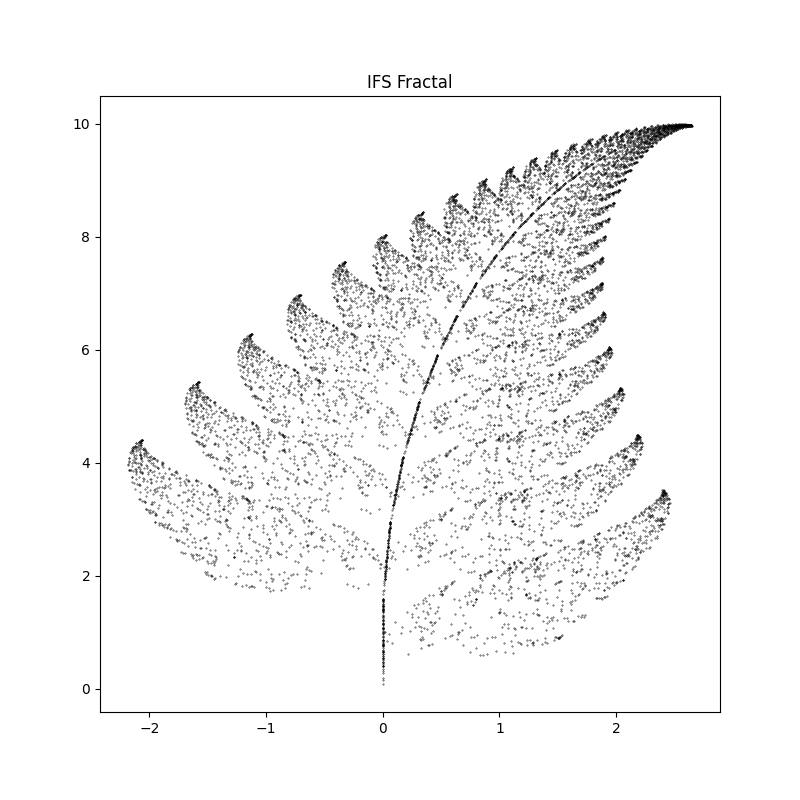
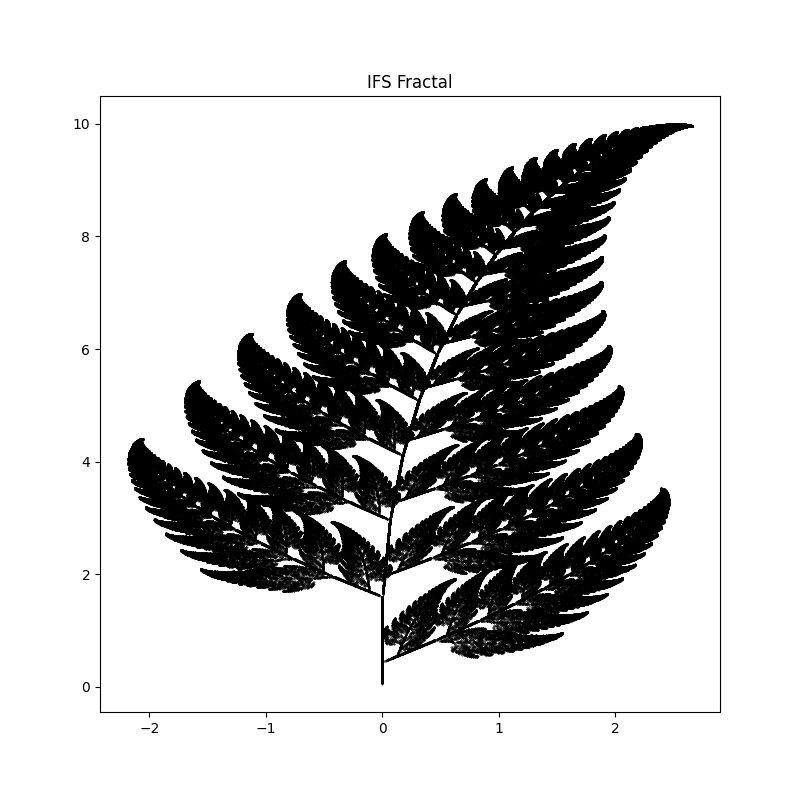
update on readmes and results

Changed region(s): [[0.1562, 0.1562, 0.8438, 0.8438], [0.0938, 0.8438, 0.125, 0.875]]

diff --git a/src/tasks/iterated_function_systems.py b/src/tasks/iterated_function_systems.py
@@ -13,21 +13,16 @@ class IFS(Runnable):
         # Define affine transformations (A, b, and probability)
         self.transform_map = {
             "fern": [
-                (np.array([[0.0, 0.0], [0.0, 0.16]]), np.array([0.0, 0.0]), 0.01),
-                (np.array([[0.85, 0.04], [-0.04, 0.85]]), np.array([0.0, 1.6]), 0.85),
-                (np.array([[0.2, -0.26], [0.23, 0.22]]), np.array([0.0, 1.6]), 0.07),
-                (np.array([[-0.15, 0.28], [0.26, 0.24]]), np.array([0.0, 0.44]), 0.07),
+                (np.array([[0.00, 0.00, 0.01], [0.00, 0.26, 0.00], [0.00, 0.00, 0.05]]), np.array([0.00, 0.00, 0.00]), 0.25),
+                (np.array([[0.20, -0.26, -0.01], [0.23, 0.22, -0.07], [0.07, 0.00, 0.24]]), np.array([0.00, 0.80, 0.00]), 0.25),
+                (np.array([[-0.25, 0.28, 0.01], [0.26, 0.24, -0.07], [0.07, 0.00, 0.24]]), np.array([0.00, 0.22, 0.00]), 0.25),
+                (np.array([[0.85, 0.04, -0.01], [-0.04, 0.85, 0.09], [0.00, 0.08, 0.84]]), np.array([0.00, 0.80, 0.00]), 0.25),
             ],
-            "triangle": [
-                (np.array([[0.5, 0.0], [0.0, 0.5]]), np.array([0.0, 0.0]), 0.33),
-                (np.array([[0.5, 0.0], [0.0, 0.5]]), np.array([1.0, 0.0]), 0.33),
-                (np.array([[0.5, 0.0], [0.0, 0.5]]), np.array([0.5, 0.866]), 0.34),
-            ],
-            "square": [
-                (np.array([[0.5, 0.0], [0.0, 0.5]]), np.array([0.0, 0.0]), 0.25),
-                (np.array([[0.5, 0.0], [0.0, 0.5]]), np.array([0.5, 0.0]), 0.25),
-                (np.array([[0.5, 0.0], [0.0, 0.5]]), np.array([0.0, 0.5]), 0.25),
-                (np.array([[0.5, 0.0], [0.0, 0.5]]), np.array([0.5, 0.5]), 0.25),
+            "fern2d": [
+                (np.array([[0.0, 0.0, 0.0], [0.0, 0.16, 0.0], [0.0, 0.0, 0.0]]), np.array([0.0, 0.0, 0.0]), 0.01),
+                (np.array([[0.85, 0.04, 0.0], [-0.04, 0.85, 0.0], [0.0, 0.0, 0.0]]), np.array([0.0, 1.6, 0.0]), 0.85),
+                (np.array([[0.2, -0.26, 0.0], [0.23, 0.22, 0.0], [0.0, 0.0, 0.0]]), np.array([0.0, 1.6, 0.0]), 0.07),
+                (np.array([[-0.15, 0.28, 0.0], [0.26, 0.24, 0.0], [0.0, 0.0, 0.0]]), np.array([0.0, 0.44, 0.0]), 0.07),
             ],
             "custom": [
                 (np.array([[0.05, 0.00, 0.00], [0.00, 0.60, 0.00], [0.00, 0.00, 0.05]]), np.array([0.00, 0.00, 0.00]), 0.25),
@@ -38,7 +33,7 @@ class IFS(Runnable):
         }
 
         # Default to "fern"
-        self.transforms = self.transform_map["fern"]
+        self.transforms = self.transform_map["fern2d"]
 
     def set_transforms(self, name: str) -> None:
         """
@@ -53,27 +48,33 @@ class IFS(Runnable):
     def generate(self) -> np.ndarray:
         """
         Generate IFS fractal points.
-        :return: Tuple of X and Y coordinates of generated points
+        :return: Tuple of X, Y, and Z coordinates of generated points
         """
-        x, y = np.random.uniform(-1, 1), np.random.uniform(0, 2)
+        # Initialize a random starting point in 3D space
+        x, y, z = np.random.uniform(-1, 1), np.random.uniform(0, 3), np.random.uniform(-1, 1)
         points = []
 
+        # Extract probabilities and transformations
         probs = [t[2] for t in self.transforms]
         transforms = [t[:2] for t in self.transforms]
 
         for _ in range(self.iterations):
+            # Randomly select a transformation based on probabilities
             A, b = transforms[np.random.choice(len(transforms), p=probs)]
-            vec = np.dot(A, np.array([x, y])) + b
-            x, y = vec[0], vec[1]
-            points.append((x, y))
 
+            # Apply the affine transformation
+            vec = np.dot(A, np.array([x, y, z])) + b
+            x, y, z = vec[0], vec[1], vec[2]
+            points.append((x, y, z))
+
+        # Convert points to a NumPy array
         points = np.array(points)
-        return np.column_stack((points[:, 0], points[:, 1]))
+        return np.column_stack((points[:, 0], points[:, 1], points[:, 2]))
 
     @staticmethod
     def run():
-        model = IFS()
+        model = IFS(100000)
         nppoints = model.generate()
-        x, y = nppoints[:, 0], nppoints[:, 1]
+        x, y, z = nppoints[:, 0], nppoints[:, 1], nppoints[:, 2]
         animate_fractal_generation(x, y)
         plot_fractal(x, y, "IFS Fractal", save=True)

diff --git a/src/tasks/l_system.py b/src/tasks/l_system.py
@@ -83,16 +83,16 @@ class LSystem(Runnable):
         # Příklady různých fraktálů
         systems = [
             (LSystem(axiom="F", rules={"F": "F+F-F-F+F"}, angle=90, iterations=3),
-             {"title": "Kochova Křivka", "save": True}),
+             {"title": "l_sys Pythagors tree", "save": True}),
 
             (LSystem(axiom="X", rules={"X": "F+[[X]-X]-F[-FX]+X", "F": "FF"}, angle=25, iterations=5),
-             {"title": "Fraktální Strom", "save": True}),
-
-            (LSystem(axiom="F--F--F", rules={"F": "F+F--F+F"}, angle=60, iterations=4),
-             {"title": "Sierpińského Trojúhelník", "save": True}),
+             {"title": "l_sys Fractal complex rules tree", "save": True}),
 
             (LSystem(axiom="F", rules={"F": "FF+[+F-F-F]-[-F+F+F]"}, angle=22.5, iterations=4),
-             {"title": "Pythagorova Strom", "save": True}),
+             {"title": "l_sys Fractal simple rules tree", "save": True}),
+
+            (LSystem(axiom="F--F--F", rules={"F": "F+F--F+F"}, angle=60, iterations=5),
+             {"title": "l_sys Koch snowflake", "save": True}),
         ]
 
         for system, params in systems:

diff --git a/report/l_systems.md b/report/l_systems.md
@@ -1,0 +1,49 @@
+# L-systems
+
+L-systems are formal grammars used to simulate the growth of natural patterns
+like plants or fractal structures.
+
+## What it is
+
+An L-system consists of an initial string (axiom) and a set of production rules.
+These rules are applied iteratively to grow the string into a complex structure.
+The resulting string can be interpreted as drawing commands (e.g., turtle graphics) to visualize
+fractals or branching structures.
+
+## Components and Parameters
+
+### Parameters
+
+- **Axiom** – starting string
+- **Rules** – substitution rules applied to each character (e.g., `F → F+F−F−F+F`)
+- **Iterations** – number of times the rules are applied
+
+### Functions (components)
+
+- **Generate** – builds the string by repeatedly applying rules
+- **Genetic Encoding** – rules can be encoded into arrays for optimization (e.g., using genetic algorithms)
+- **Visualization** – the final string is interpreted as drawing instructions
+
+## Results
+
+- The structure is visualized as a set of 2D lines based on the final L-system string.
+
+A simple L-system generating a branching plant-like shape:
+
+![Fractal Tree](../results/l_sys_Fractal_simple_rules_tree.png)
+Fractal tree is a classic example of an L-system, resembling a branching structure.
+
+![](../results/l_sys_Koch_snowflake.png)
+Koch Snowflake is a fractal that resembles a flower or a plant.
+
+![Fractal Tree](../results/l_sys_Pythagors_tree.png)
+Pythagorean tree is a fractal constructed from squares and right triangles.
+
+You can observe how small changes in rules result in completely different outcomes.
+The number of iterations strongly influences detail and complexity.
+
+## Insights
+
+- More iterations really fast increase visual complexity.
+- Rule variation leads to radically different fractal forms.
+- Genetic algorithms help discover aesthetically interesting shapes.

diff --git a/report/ifs.md b/report/ifs.md
@@ -1,0 +1,41 @@
+# IFS (Iterated Function Systems)
+
+IFS are mathematical systems used to generate fractals using repeated affine transformations.
+They are widely used for modeling natural phenomena like ferns, clouds, or coastlines.
+
+## What it is
+
+An IFS consists of a set of affine transformations, each applied repeatedly to a point in space.
+Each transformation has a probability, and one is selected at random during each iteration.
+Over time, this creates a self-similar, fractal structure.
+
+## Components and Parameters
+
+### Components for IFS
+
+- **Affine transformation (A)** – a 2x2 matrix defining scale, rotation, and shear.
+- **Translation vector (b)** – shifts the point in space.
+- **Probability** – chance of selecting each transformation at each step.
+- **Iterations** – number of times transformations are applied.
+
+## Code Structure
+
+In constructor, there is map of transformations and their probabilities for 3D space.
+Also, there is function for choosing one of the maps.
+It is a matter of course to have a function for generating points in 3D space and rendering them in animation and in static picture.
+
+## Results
+
+Example of Barnsley fern generated by a 4-rule IFS system:
+
+![Fern Example](../results/IFS%20Fractal.png)
+
+You can observe the recursive nature of the pattern – parts resemble the whole.
+
+## Insights
+
+- Transformations must be carefully designed to produce appealing structures.
+- More iterations yield sharper, more detailed fractals but require way more computation.
+- Probabilities control the density of different areas of the shape.
+- IFS offers a simple but powerful way to generate complex, natural-looking forms.
+
